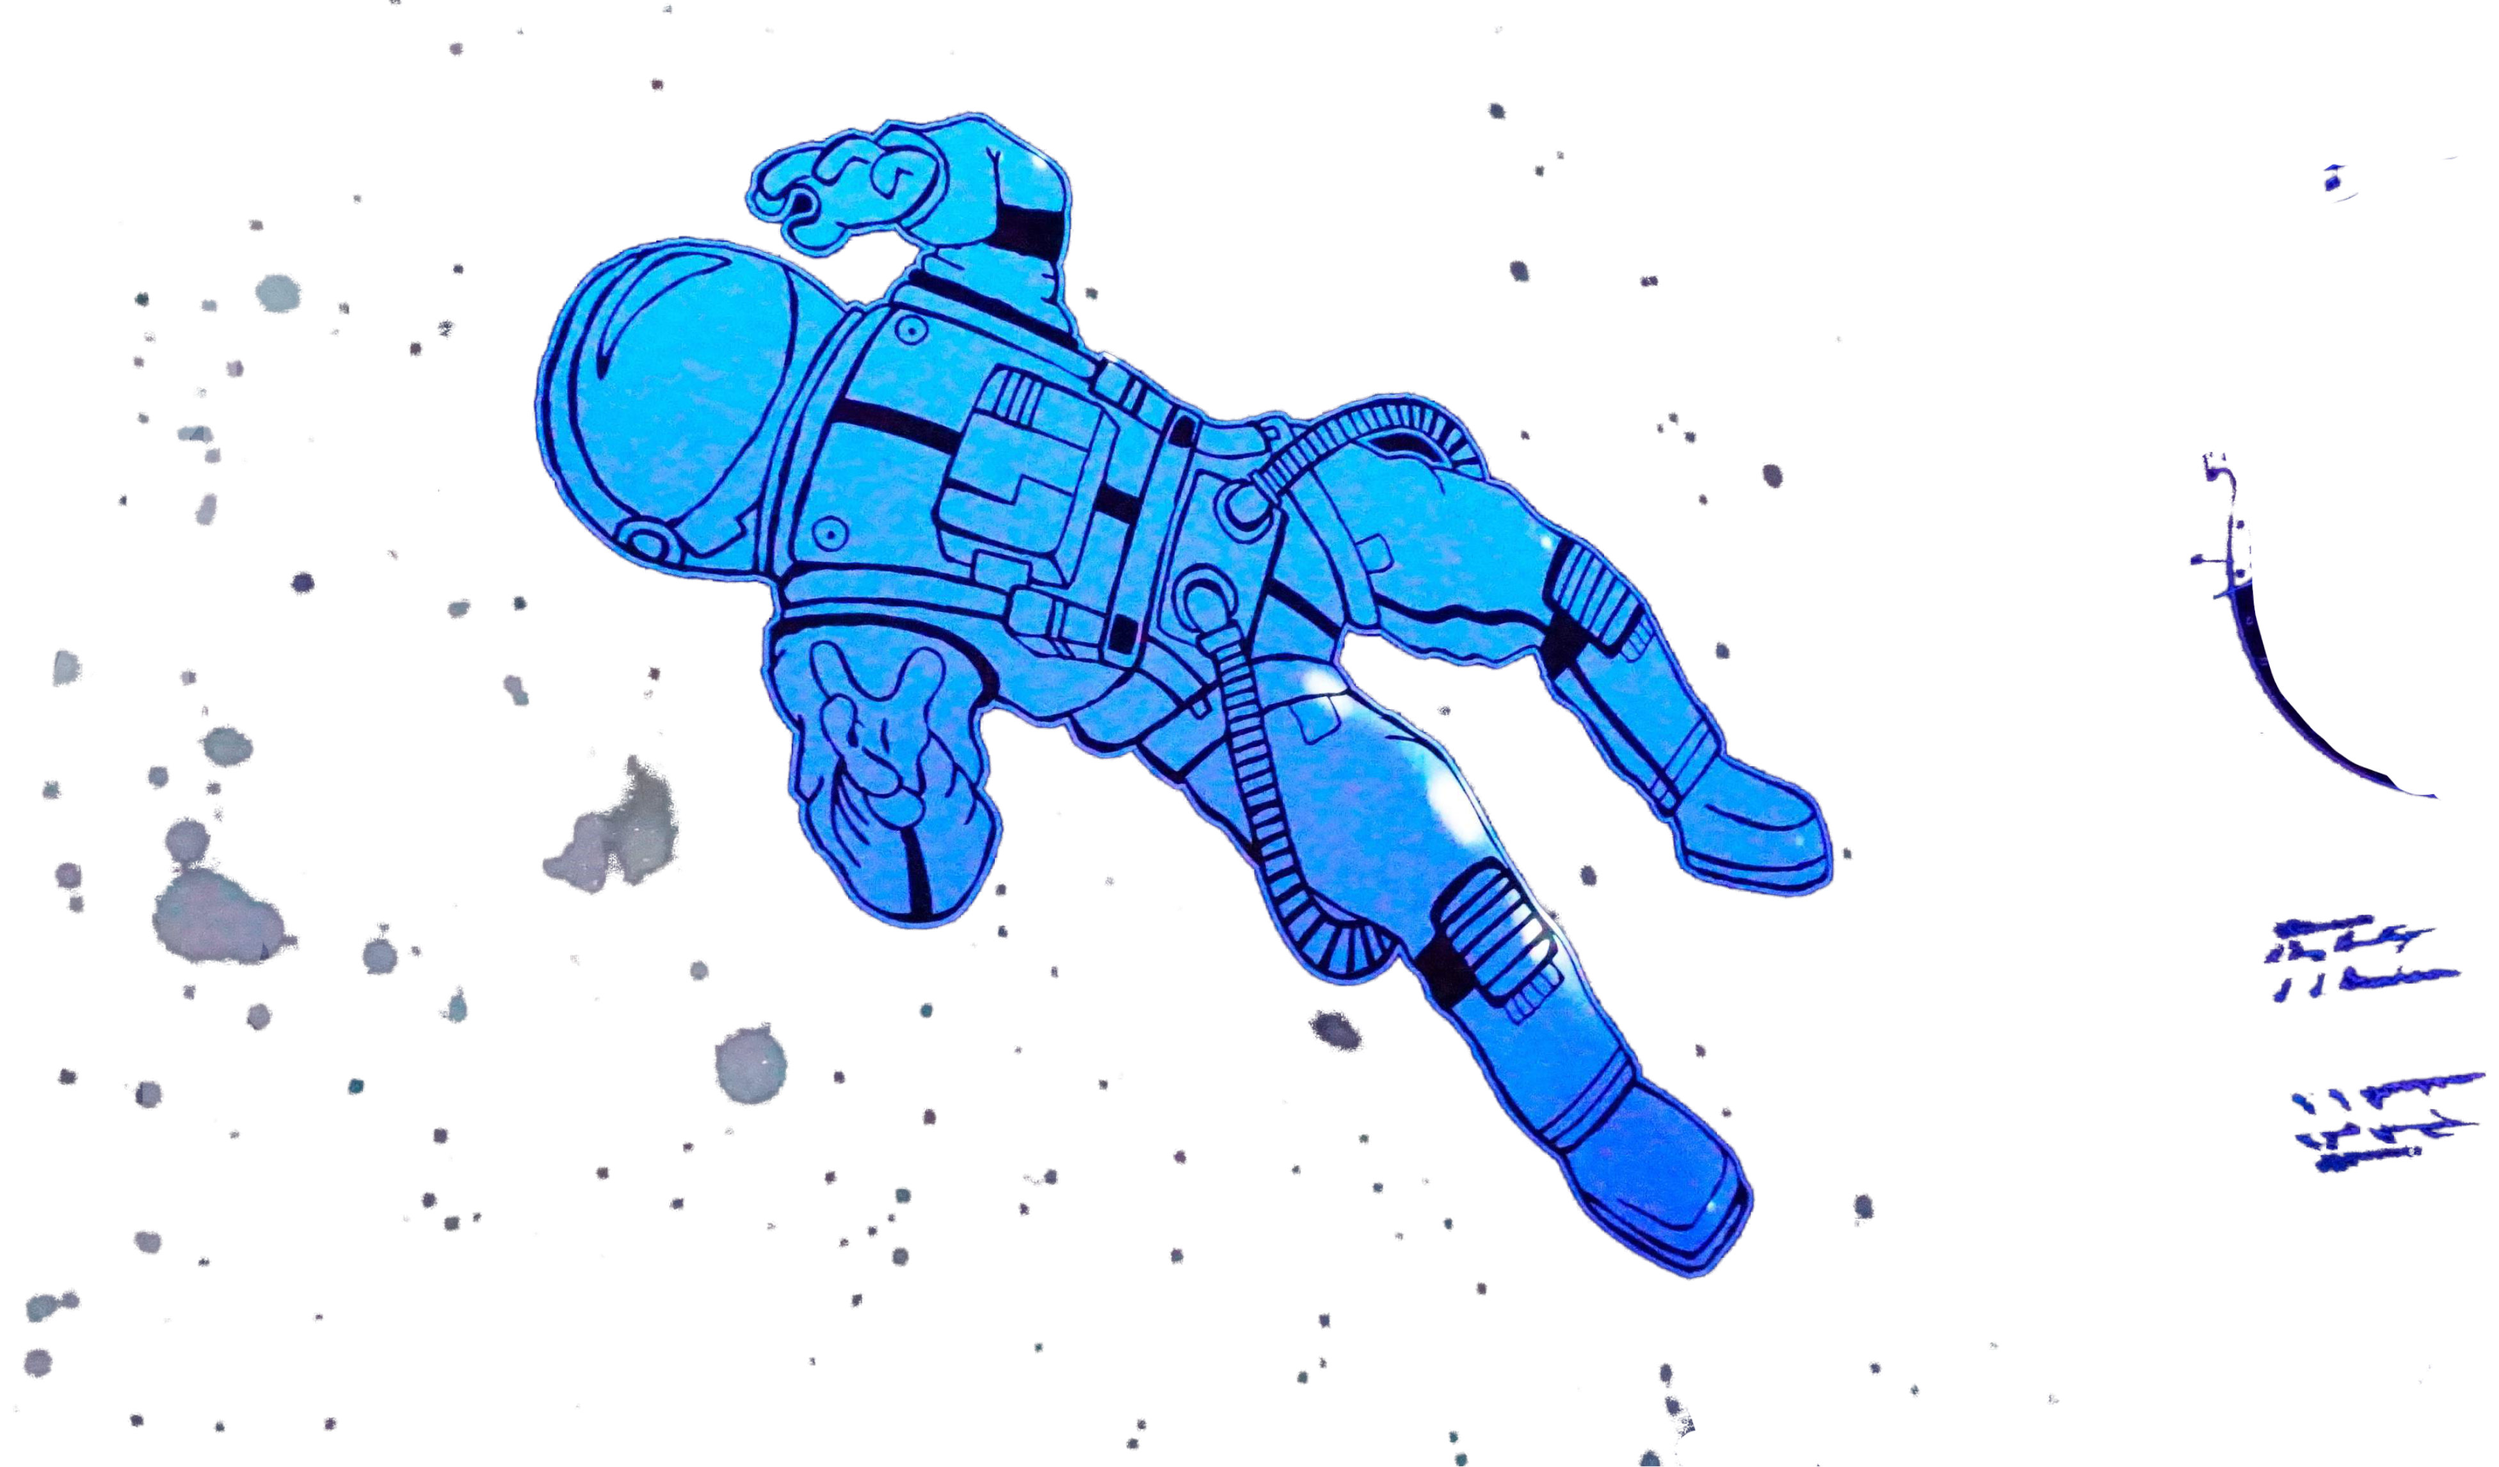
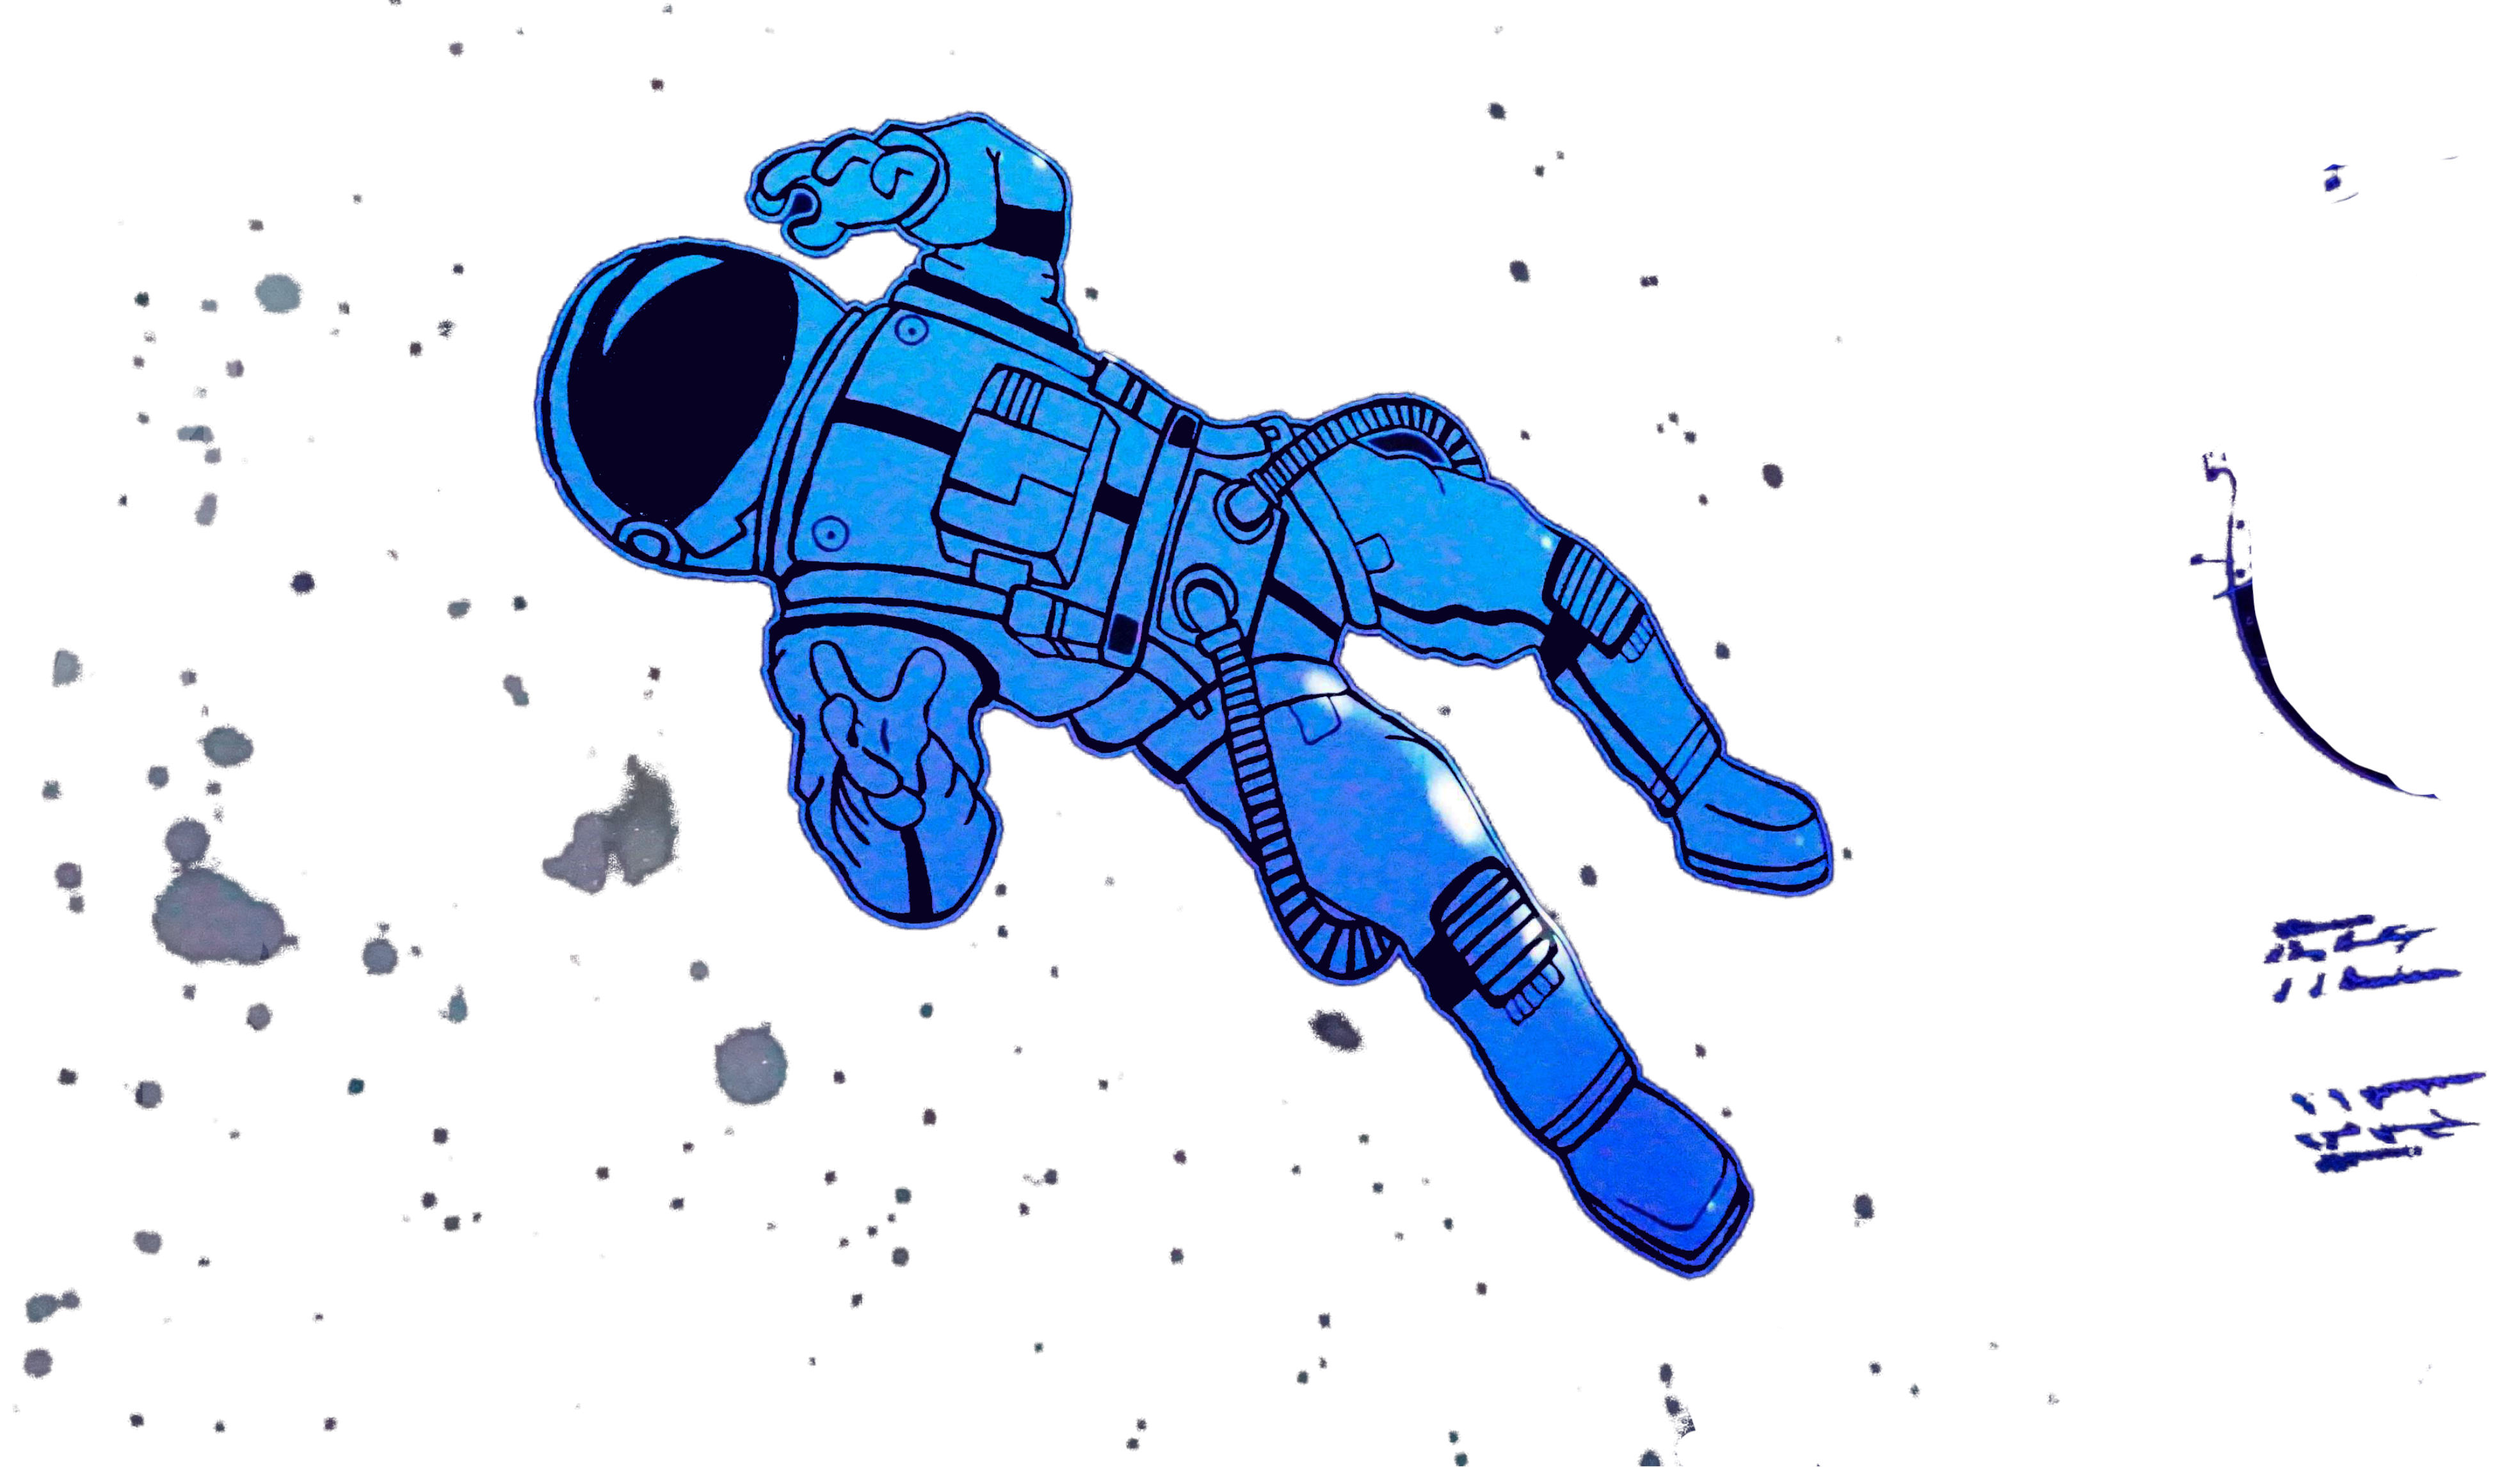
Minimal design updates

diff --git a/src/assets/styles/base.css b/src/assets/styles/base.css
@@ -4,11 +4,15 @@
 
 @layer components {
 	.btn {
-		@apply inline-flex items-center justify-center rounded border-gray-400 border font-semibold text-center text-base text-gray-700 leading-snug transition py-3 px-6 ease-in duration-200 focus:ring-blue-500 focus:ring-offset-blue-200 focus:ring-2 focus:ring-offset-2 hover:bg-gray-100 hover:border-gray-600 dark:text-slate-300 dark:border-slate-500 dark:hover:bg-slate-800 dark:hover:border-slate-800;
+		@apply inline-flex items-center justify-center rounded-md shadow-md border-gray-400 border bg-transparent font-medium text-center text-base text-gray-700 leading-snug transition py-3 px-6 md:px-8 ease-in duration-200 focus:ring-blue-500 focus:ring-offset-blue-200 focus:ring-2 focus:ring-offset-2 hover:bg-gray-100 hover:border-gray-600 dark:text-slate-300 dark:border-slate-500 dark:hover:bg-slate-800 dark:hover:border-slate-800;
+	}
+
+	.btn-ghost {
+		@apply border-none shadow-none text-gray-600 hover:text-gray-900 dark:text-gray-400 dark:hover:text-white;
 	}
 
 	.btn-primary {
-		@apply bg-primary-600 text-white border-primary-600 hover:bg-primary-800 hover:border-primary-800 hover:text-white dark:text-white dark:bg-primary-700 dark:border-primary-700 dark:hover:border-primary-900 dark:hover:bg-primary-900;
+		@apply font-semibold bg-primary-600 text-white border-primary-600 hover:bg-primary-800 hover:border-primary-800 hover:text-white dark:text-white dark:bg-primary-700 dark:border-primary-700 dark:hover:border-primary-900 dark:hover:bg-primary-900;
 	}
 }
 
